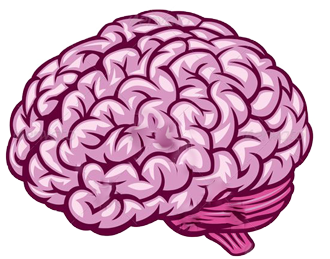
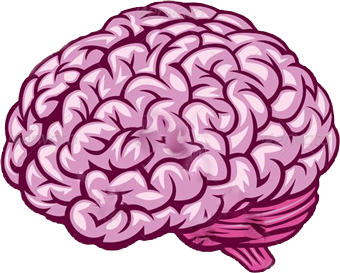
changed muh BRAINZ

diff --git a/scss/step2.scss b/scss/step2.scss
@@ -73,7 +73,7 @@ main {
 	}
 
 	#brains {
-		background: url(../img/burger/brains_02.png) #{$background-suffix};
+		background: url(../img/burger/5_brains.png) #{$background-suffix};
 		top: $burger-height * 4;
 		height: $burger-height * 1.5;
 		animation: slideFromLeft 1s ease 4s forwards;

diff --git a/css/step2.css b/css/step2.css
@@ -298,7 +298,7 @@ main #tomatos {
 }
 
 main #brains {
-  background: url(../img/burger/brains_02.png) center center no-repeat;
+  background: url(../img/burger/5_brains.png) center center no-repeat;
   top: 280px;
   height: 105px;
   -webkit-animation: slideFromLeft 1s ease 4s forwards;
